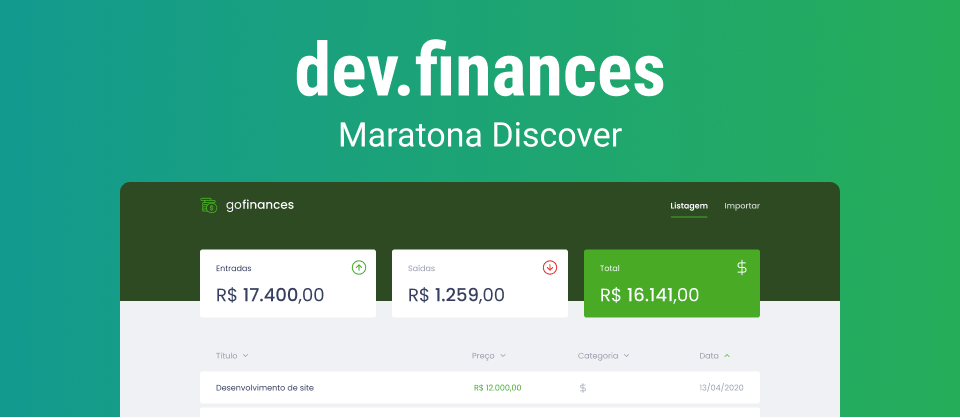
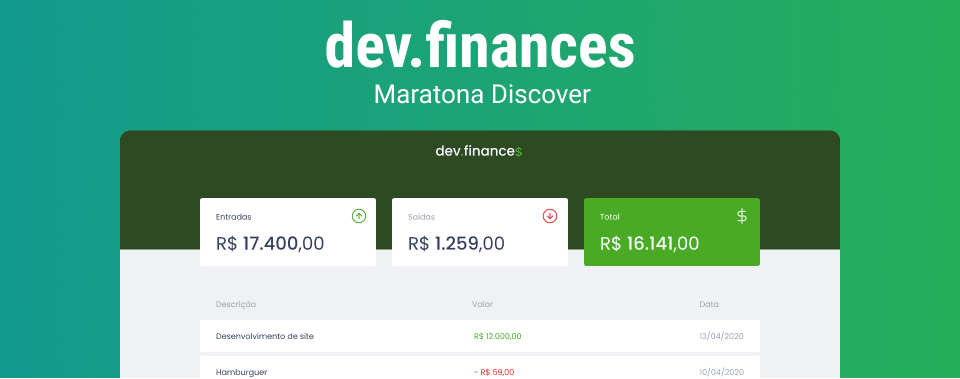
Layout adjs

diff --git a/index.html b/index.html
@@ -36,7 +36,7 @@
             </div>
             <div class="card total">
                 <h3>
-                    <span>Total</span>
+                    <span>Saldo</span>
                     <img src="./assets/total.svg" alt="imagem de total">
                 </h3>
                 <p id="totalDisplay">R$ 0,00</p>
@@ -45,9 +45,7 @@
 
         <section id="transactions">
             <h2 class="sr-only">Transações</h2>
-            <a onclick="Modal.toggleModal()" 
-                href="#" 
-                class="button new">+ nova transação</a>
+            <a onclick="Modal.toggleModal()" href="#" class="button new"><img src="./assets/new-transaction.svg"> nova transação</a>
             <table id="data-table">
                 <thead>
                     <tr>
@@ -57,10 +55,12 @@
                         <th></th>
                     </tr>
                 </thead>
-                <tbody>
-                                        
+                <tbody>       
                 </tbody>
             </table>
+            <div class="empty-table">
+                <p>Nenhuma transação salva</p>
+            </div>
         </section>
 
     </main>
@@ -101,7 +101,7 @@
                     </div>
                     <div class="input-group actions">
                         <a href="#" onclick="Modal.toggleModal()" class="button cancel">Cancelar</a>
-                        <button type="submit">Salvar</button>
+                        <button type="submit" class="button save-transaction">Salvar</button>
                     </div>
                 </form>
             </div>
@@ -110,7 +110,7 @@
 
     <!-- rodapé -->
     <footer class="container">
-        <footer>dev.finance$</footer>
+        <img src="./assets/footer-logo.svg" alt="Logo no rodapé da página" class="footer-logo">
     </footer>
 
     <script src="./scripts.js" type="text/javascript"></script>

diff --git a/styles.css b/styles.css
@@ -49,13 +49,18 @@ a:hover{
 }
 
 .button.new{
-    display: inline-block;
+    font-size:1.1em;
     margin-bottom: .3rem;
-    background-color: #e6e2ff;
-    border-radius:.4rem;
-    padding:.3rem .5rem;
+    display: flex;
+    align-items: center;
+    max-width: max-content;
 }
-
+.button.new img{
+    margin-right:3px;
+}
+.button.new:hover{
+    opacity:.85;
+}
 button{
     width: 100%;
     height: 50px;
@@ -65,9 +70,8 @@ button{
     padding:0;
     border-radius: .25rem;
     cursor: pointer;
-}
-button:hover{
-    background-color: var(--light-green);
+    font-family: 'Poppins', sans-serif;
+    font-size: 1rem;
 }
 .button.cancel{
     color: var(--red);
@@ -78,6 +82,12 @@ button:hover{
     align-items: center;
     justify-content: center;
     opacity: .6;
+}
+.button.save-transaction{
+    background-color: #34b659;
+}
+.button.save-transaction:hover{
+    background-color: #2c994b;
 }
 .button.cancel:hover{
     opacity:1;
@@ -194,6 +204,27 @@ td.expense{
     color: var(--red);
 }
 
+.empty-table{
+    background-color:#e9e9fd;
+    width: 100%;
+    display: flex;
+    align-items: center;
+    justify-content: center;
+    padding: 1.6rem 0;
+    opacity:0;
+    visibility:hidden;
+}
+
+.display-empty{
+    opacity:1;
+    visibility: visible;
+}
+
+.empty-table p{
+    font-size:1.2rem;
+    color: #969cb3;
+}
+
 /* MODAL --------------*/
 .modal-overlay{
     width:100%;
@@ -267,10 +298,16 @@ footer{
     text-align: center;
     padding: 4rem 0 2rem;
     color: var(--dark-blue);
-    opacity:.6;
+    opacity:.95;
     z-index:1;
 }
 
+footer .footer-logo{
+    opacity:.7;
+}
+footer .footer-logo:hover{
+    opacity:1;
+}
 /* Responsive ------*/
 @media(min-width:800px){
 

diff --git a/scripts.js b/scripts.js
@@ -49,11 +49,15 @@ const Transaction = {
     },
     total(){
         return Transaction.incomes() + Transaction.expenses()
+    },
+    isEmpty(){
+        return (Transaction.all.length === 0)
     }
 }
 
 
 const DOM = {
+    emptyVisible: "",
     transactionContainer: document.querySelector('#data-table tbody'),
 
     addTransaction(transaction, index){
@@ -89,6 +93,12 @@ const DOM = {
     },
     clearTransactions(){
         DOM.transactionContainer.innerHTML = ""
+    },
+    showEmptyTable(){
+        document.
+            querySelector('div.empty-table').
+            classList.
+            toggle('display-empty')
     }
 }
 
@@ -172,7 +182,16 @@ const App = {
     init(){
         Transaction.all.forEach( DOM.addTransaction )
         DOM.updateBalance()
-        Storage.set( Transaction.all )
+        Storage.set( Transaction.all )    
+        if(Transaction.isEmpty()){
+            DOM.showEmptyTable()
+            DOM.emptyVisible = true;
+        }
+        else if(DOM.emptyVisible){
+            DOM.showEmptyTable()
+            DOM.emptyVisible = false;
+            
+        }
     },
     reload(){
         DOM.clearTransactions()

diff --git a/README.md b/README.md
@@ -2,10 +2,9 @@
 
 ### Descrição
 Web app para guardar transações financeiras. Este projeto foi desenvolvido durante as aulas da Maratona Discover da Rocketseat.
-
-### <a href="https://patrickrios.github.io/dev-finances-maratona-discover/" target="_BLANK">Live preview</a>
-
+### <a href="https://patrickrios.github.io/dev-finances-maratona-discover/" target="_BLANK">Live Demo</a>
 ### Agradecimentos
-[<img src="https://avatars.githubusercontent.com/u/6643122?s=460&u=1e9e1f04b76fb5374e6a041f5e41dce83f3b5d92&v=4" width=115 > <br> <sub> Mayk Brito (instrutor) </sub>](https://github.com/maykbrito) | [<img src="https://avatars.githubusercontent.com/u/28929274?s=200&v=4" width=115 > <br> <sub> Rocketseat (Plataforma de educação) </sub>](https://github.com/Rocketseat) |
+Obrigado Rockeseat por disponibilizar um conteúdo de excelente qualidade e ao instrutor gente finíssima.
+[<img src="https://avatars.githubusercontent.com/u/6643122?s=460&u=1e9e1f04b76fb5374e6a041f5e41dce83f3b5d92&v=4" width=115 > <br> <sub> Mayk Brito (Instrutor) </sub>](https://github.com/maykbrito) | [<img src="https://avatars.githubusercontent.com/u/28929274?s=200&v=4" width=115 > <br> <sub> Rocketseat (Plataforma de educação) </sub>](https://github.com/Rocketseat) |
 | :---: | :---: |
 
